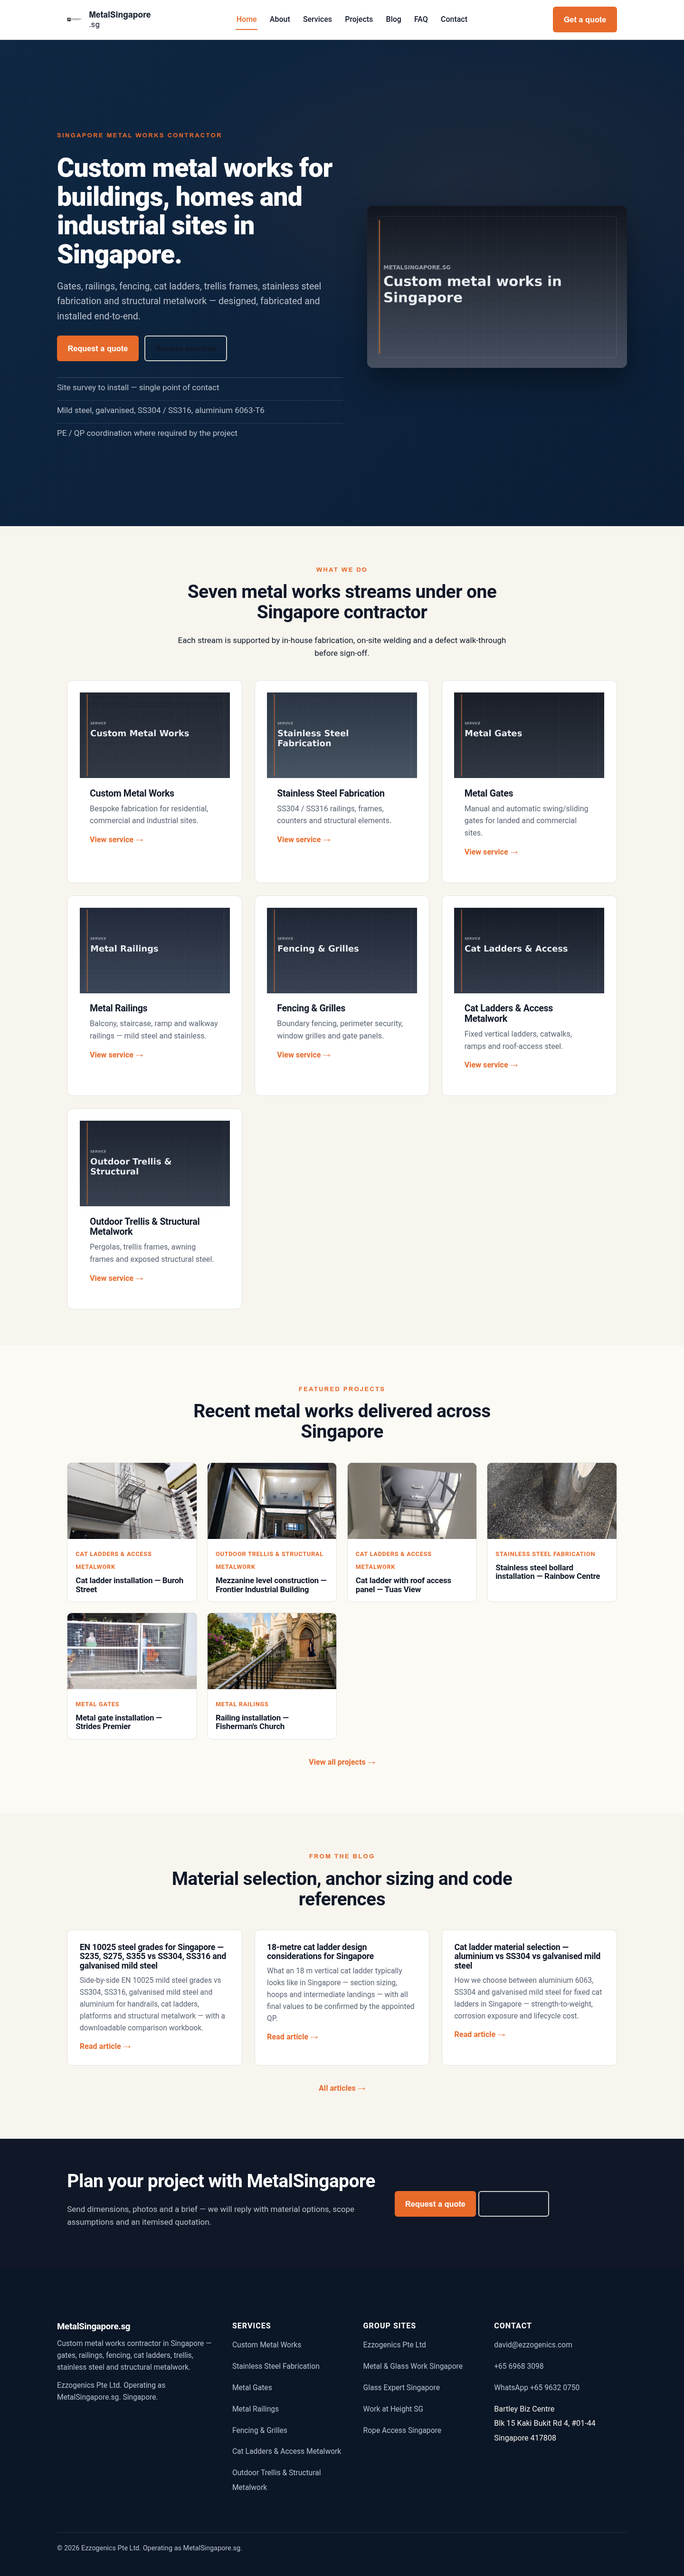
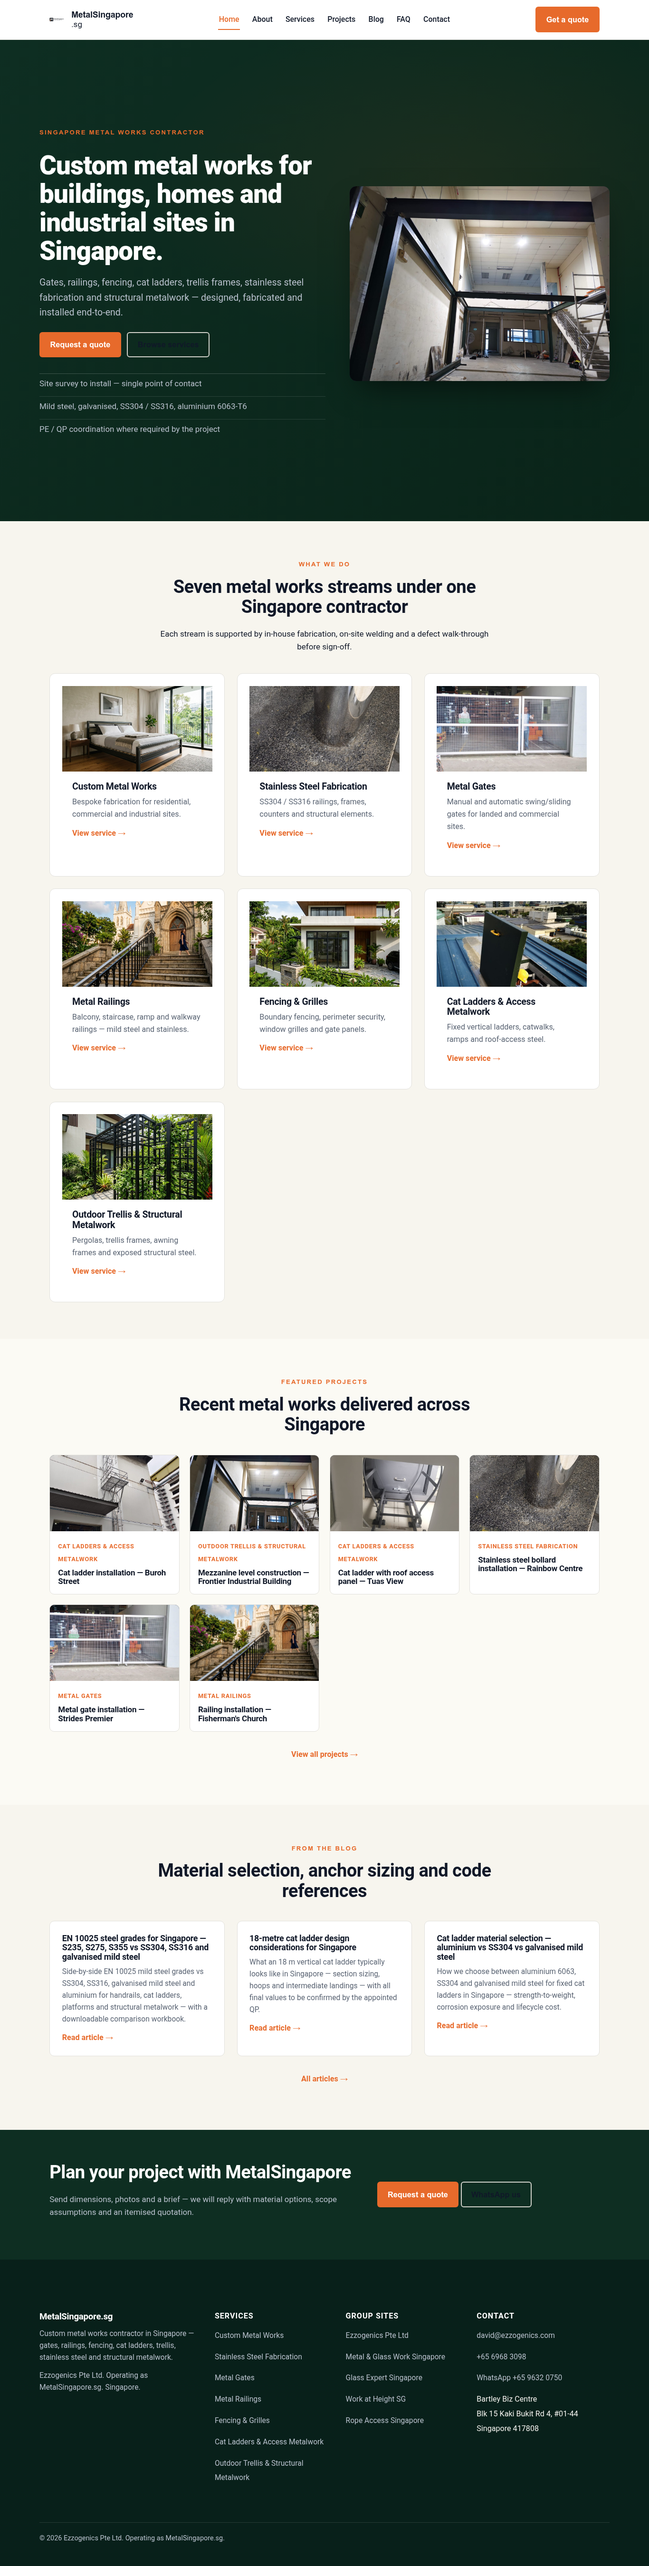
Home/services: replace text-only placeholder rectangles with real project images
The homepage hero card and the 7 service-card rectangles, plus the
/services/ hub cards, were dark blueprint blocks with text only. Swap
them for actual project photos from the existing /assets/images/projects
portfolio so the cards show real metalwork. Preserve the dark forest
green theme and card aspect ratios; images use object-fit:cover with the
existing border radius and consistent 4:3 framing.

- Home hero: Frontier Industrial mezzanine (eager / fetchpriority high).
- Custom Metal Works: Arthur 118 metal bed.
- Stainless Steel Fabrication: Rainbow Centre SS304 bollards.
- Metal Gates: Strides Premier metal gate.
- Metal Railings: Fisherman's Church railing.
- Fencing & Grilles: Grey Lane window grille / railing.
- Cat Ladders & Access: Wan Lee cat ladder.
- Outdoor Trellis & Structural: outdoor trellis.

Also updates CATEGORIES.cover and services.cover to point at the same
project photos so the /services/ hub, ServiceDetail OG images and the
static build agree. Adds .service-card--image variant CSS with media +
body split and hover zoom.

QA: tsc, vite build, build/site.py, qa_check.py all clean (0 errors,
84 pre-existing warnings unchanged).

diff --git a/src/pages/Home.tsx b/src/pages/Home.tsx
@@ -2,10 +2,46 @@ import { Link } from 'react-router-dom';
 import RouteHead from '../components/RouteHead';
 import CtaBlock from '../components/CtaBlock';
 import ProjectCard from '../components/ProjectCard';
-import { SITE, CATEGORIES, SPOKES } from '../data/site';
+import { SITE, CATEGORIES, SPOKES, type CategorySlug } from '../data/site';
 import { services } from '../data/services';
 import { useProjects } from '../hooks/useProjects';
 import { blogPosts } from '../data/blog';
+
+/**
+ * Cover image per service card on the home page. Sourced from the existing
+ * project portfolio so the rectangles show real metal works rather than
+ * placeholder cards.
+ */
+const SERVICE_CARD_IMAGES: Record<CategorySlug, { src: string; alt: string }> = {
+  'custom-metal-works': {
+    src: '/assets/images/projects/proj-arthur-118-metal-bed-2021.jpg',
+    alt: 'Custom fabricated metal bed frame for an Arthur Road residence, Singapore',
+  },
+  'stainless-steel-fabrication': {
+    src: '/assets/images/projects/proj-rainbow-centre-stainless-bollards-2024.jpg',
+    alt: 'Stainless steel SS304 bollards installed at Rainbow Centre, Singapore',
+  },
+  'metal-gates': {
+    src: '/assets/images/projects/proj-strides-premier-metal-gate-2024.jpg',
+    alt: 'Metal gate installation at Strides Premier, Singapore',
+  },
+  'metal-railings': {
+    src: '/assets/images/projects/proj-st-mary-church-railing-2023.jpg',
+    alt: "Metal railing installation at Fisherman's Church, Singapore",
+  },
+  'fencing-and-grilles': {
+    src: '/assets/images/projects/proj-grey-lane-metal-works-2022.jpg',
+    alt: 'Window grille and metal railing at Grey Lane, Singapore',
+  },
+  'cat-ladders-and-access-metalwork': {
+    src: '/assets/images/projects/proj-wan-lee-cat-ladder-2024.jpg',
+    alt: 'Cat ladder and roof access metalwork at Wan Lee, Singapore',
+  },
+  'outdoor-trellis-and-structural-metalwork': {
+    src: '/assets/images/projects/proj-outdoor-trellis-2024.jpg',
+    alt: 'Outdoor metal trellis fabricated and installed in Singapore',
+  },
+};
 
 export default function Home() {
   const { projects } = useProjects();
@@ -87,14 +123,15 @@ export default function Home() {
             </div>
           </div>
           <div className="hero-media">
-            <div
-              className="hero-card"
-              role="img"
-              aria-label="MetalSingapore.sg — custom metal works in Singapore"
-            >
-              <p className="hero-card-eyebrow">MetalSingapore.sg</p>
-              <p className="hero-card-title">Custom metal works in Singapore</p>
-            </div>
+            <img
+              src="/assets/images/projects/proj-frontier-industrial-mezzanine-2024.jpg"
+              alt="Structural steel mezzanine fabrication at Frontier Industrial Building, Singapore"
+              width={1200}
+              height={900}
+              loading="eager"
+              decoding="async"
+              fetchPriority="high"
+            />
           </div>
         </div>
       </section>
@@ -168,12 +205,25 @@ export default function Home() {
           <div className="service-grid">
             {Object.values(CATEGORIES).map((c) => {
               const svc = services.find((s) => s.slug === c.slug);
+              const card = SERVICE_CARD_IMAGES[c.slug];
               return (
-                <Link key={c.slug} to={`/services/${c.slug}`} className="service-card">
-                  <p className="eyebrow">Service</p>
-                  <h3>{c.title}</h3>
-                  <p>{svc?.lead || c.short}</p>
-                  <span className="service-card__more">Read more →</span>
+                <Link key={c.slug} to={`/services/${c.slug}`} className="service-card service-card--image">
+                  <div className="service-card__media">
+                    <img
+                      src={card.src}
+                      alt={card.alt}
+                      loading="lazy"
+                      decoding="async"
+                      width={800}
+                      height={600}
+                    />
+                  </div>
+                  <div className="service-card__body">
+                    <p className="eyebrow">Service</p>
+                    <h3>{c.title}</h3>
+                    <p>{svc?.lead || c.short}</p>
+                    <span className="service-card__more">Read more →</span>
+                  </div>
                 </Link>
               );
             })}

diff --git a/src/data/services.ts b/src/data/services.ts
@@ -75,7 +75,7 @@ export const services: Service[] = [
           'Where the metalwork forms part of a larger fit-out or A&A renovation, we coordinate with carpentry, glass, electrical and waterproofing trades through the main contractor or ID firm.',
       },
     ],
-    cover: '/assets/images/cat-custom-metal-works.jpg',
+    cover: '/assets/images/projects/proj-arthur-118-metal-bed-2021.jpg',
   },
   {
     slug: 'stainless-steel-fabrication',
@@ -128,7 +128,7 @@ export const services: Service[] = [
           'Frameless glass balustrades use clamp or channel fixings; semi-frameless designs use stainless top rails with glass panels. Glass thickness, post spacing and fixing capacity should be verified against the design loading by the project Professional Engineer.',
       },
     ],
-    cover: '/assets/images/cat-stainless-steel-fabrication.jpg',
+    cover: '/assets/images/projects/proj-rainbow-centre-stainless-bollards-2024.jpg',
   },
   {
     slug: 'metal-gates',
@@ -184,7 +184,7 @@ export const services: Service[] = [
           'Mild-steel gates outdoors should be hot-dip galvanised or zinc-primed before topcoat. Stainless gates are usually SS304 brushed for general use and SS316 if coastal exposure is expected.',
       },
     ],
-    cover: '/assets/images/cat-metal-gates.jpg',
+    cover: '/assets/images/projects/proj-strides-premier-metal-gate-2024.jpg',
   },
   {
     slug: 'metal-railings',
@@ -238,7 +238,7 @@ export const services: Service[] = [
           'Surface-mount base plates with mechanical anchors are fastest to install but transmit higher tensile load to the slab edge. Side-mount fascia brackets keep the slab edge clear but rely on the slab face strength. Choice should match the slab condition and the design loading.',
       },
     ],
-    cover: '/assets/images/cat-metal-railings.jpg',
+    cover: '/assets/images/projects/proj-st-mary-church-railing-2023.jpg',
   },
   {
     slug: 'fencing-and-grilles',
@@ -291,7 +291,7 @@ export const services: Service[] = [
           'Fixed grilles are simple and rigid; openable / lockable grilles allow emergency exit. SCDF and BCA requirements for habitable rooms and bedrooms should be verified by the appointed qualified person.',
       },
     ],
-    cover: '/assets/images/cat-fencing-and-grilles.jpg',
+    cover: '/assets/images/projects/proj-grey-lane-metal-works-2022.jpg',
   },
   {
     slug: 'cat-ladders-and-access-metalwork',
@@ -346,7 +346,7 @@ export const services: Service[] = [
           'Both Hilti and Fischer publish ETA-approved chemical and mechanical anchors with full design data for cracked and uncracked concrete. Anchor capacity is substrate-driven, not load-driven — the substrate type and crack state should be assessed before bolt selection.',
       },
     ],
-    cover: '/assets/images/cat-cat-ladders-and-access-metalwork.jpg',
+    cover: '/assets/images/projects/proj-wan-lee-cat-ladder-2024.jpg',
   },
   {
     slug: 'outdoor-trellis-and-structural-metalwork',
@@ -399,7 +399,7 @@ export const services: Service[] = [
           'Architectural steel that remains exposed in service should be detailed for cleanability and corrosion control — radiused outside corners, drainage holes in tubular sections, stainless fasteners where galvanic corrosion is a risk.',
       },
     ],
-    cover: '/assets/images/cat-outdoor-trellis-and-structural-metalwork.jpg',
+    cover: '/assets/images/projects/proj-outdoor-trellis-2024.jpg',
   },
 ];
 

diff --git a/src/data/site.ts b/src/data/site.ts
@@ -77,43 +77,43 @@ export const CATEGORIES = {
     slug: 'custom-metal-works',
     title: 'Custom Metal Works',
     short: 'Bespoke fabrication for residential, commercial and industrial sites.',
-    cover: '/assets/images/cat-custom-metal-works.jpg',
+    cover: '/assets/images/projects/proj-arthur-118-metal-bed-2021.jpg',
   },
   'stainless-steel-fabrication': {
     slug: 'stainless-steel-fabrication',
     title: 'Stainless Steel Fabrication',
     short: 'SS304 / SS316 railings, frames, counters and structural elements.',
-    cover: '/assets/images/cat-stainless-steel-fabrication.jpg',
+    cover: '/assets/images/projects/proj-rainbow-centre-stainless-bollards-2024.jpg',
   },
   'metal-gates': {
     slug: 'metal-gates',
     title: 'Metal Gates',
     short: 'Manual and automatic swing/sliding gates for landed and commercial sites.',
-    cover: '/assets/images/cat-metal-gates.jpg',
+    cover: '/assets/images/projects/proj-strides-premier-metal-gate-2024.jpg',
   },
   'metal-railings': {
     slug: 'metal-railings',
     title: 'Metal Railings',
     short: 'Balcony, staircase, ramp and walkway railings — mild steel and stainless.',
-    cover: '/assets/images/cat-metal-railings.jpg',
+    cover: '/assets/images/projects/proj-st-mary-church-railing-2023.jpg',
   },
   'fencing-and-grilles': {
     slug: 'fencing-and-grilles',
     title: 'Fencing & Grilles',
     short: 'Boundary fencing, perimeter security, window grilles and gate panels.',
-    cover: '/assets/images/cat-fencing-and-grilles.jpg',
+    cover: '/assets/images/projects/proj-grey-lane-metal-works-2022.jpg',
   },
   'cat-ladders-and-access-metalwork': {
     slug: 'cat-ladders-and-access-metalwork',
     title: 'Cat Ladders & Access Metalwork',
     short: 'Fixed vertical ladders, catwalks, ramps and roof-access steel.',
-    cover: '/assets/images/cat-cat-ladders-and-access-metalwork.jpg',
+    cover: '/assets/images/projects/proj-wan-lee-cat-ladder-2024.jpg',
   },
   'outdoor-trellis-and-structural-metalwork': {
     slug: 'outdoor-trellis-and-structural-metalwork',
     title: 'Outdoor Trellis & Structural Metalwork',
     short: 'Pergolas, trellis frames, awning frames and exposed structural steel.',
-    cover: '/assets/images/cat-outdoor-trellis-and-structural-metalwork.jpg',
+    cover: '/assets/images/projects/proj-outdoor-trellis-2024.jpg',
   },
 } as const;
 

diff --git a/assets/css/site.css b/assets/css/site.css
@@ -184,8 +184,15 @@ ul li, ol li { margin-bottom: 0.35em; }
 .hero-media {
   border-radius: 14px; overflow: hidden;
   box-shadow: 0 30px 60px -20px rgba(0,0,0,0.55);
+  background: var(--ink-3);
+  aspect-ratio: 4 / 3;
 }
-.hero-media img { width: 100%; height: auto; display: block; }
+.hero-media img {
+  width: 100%;
+  height: 100%;
+  object-fit: cover;
+  display: block;
+}
 
 /* --- Blueprint / technical card used in hero-art --- */
 .hero-card {
@@ -346,6 +353,33 @@ ul li, ol li { margin-bottom: 0.35em; }
   text-decoration: none; color: var(--ink);
   transition: transform 0.18s, border-color 0.18s, box-shadow 0.18s;
 }
+/* Service card with a real cover image: image fills the top of the card,
+   the body keeps the existing padded text layout below. */
+.service-card--image {
+  padding: 0;
+  overflow: hidden;
+}
+.service-card--image .service-card__media {
+  width: 100%;
+  aspect-ratio: 4 / 3;
+  overflow: hidden;
+  background: var(--ink-3);
+}
+.service-card--image .service-card__media img {
+  width: 100%;
+  height: 100%;
+  object-fit: cover;
+  display: block;
+  transition: transform 0.4s ease;
+}
+.service-card--image:hover .service-card__media img { transform: scale(1.03); }
+.service-card--image .service-card__body {
+  padding: 1.4rem 1.5rem 1.5rem;
+  display: flex;
+  flex-direction: column;
+  flex: 1;
+}
+.service-card--image .service-card__body p { flex: 1; }
 .service-card:hover, .hub-card:hover {
   transform: translateY(-2px);
   border-color: var(--accent);

diff --git a/build/site.py b/build/site.py
@@ -78,6 +78,40 @@ FAQS = D["faqs"]
 
 SERVICES_BY_SLUG = {s["slug"]: s for s in SERVICES}
 
+# Cover image per service card on the home page — sourced from real project
+# photos so the rectangles show actual metalwork rather than placeholder cards.
+# Keep aligned with src/pages/Home.tsx SERVICE_CARD_IMAGES.
+HOME_SERVICE_CARD_IMAGES = {
+    "custom-metal-works": {
+        "src": "/assets/images/projects/proj-arthur-118-metal-bed-2021.jpg",
+        "alt": "Custom fabricated metal bed frame for an Arthur Road residence, Singapore",
+    },
+    "stainless-steel-fabrication": {
+        "src": "/assets/images/projects/proj-rainbow-centre-stainless-bollards-2024.jpg",
+        "alt": "Stainless steel SS304 bollards installed at Rainbow Centre, Singapore",
+    },
+    "metal-gates": {
+        "src": "/assets/images/projects/proj-strides-premier-metal-gate-2024.jpg",
+        "alt": "Metal gate installation at Strides Premier, Singapore",
+    },
+    "metal-railings": {
+        "src": "/assets/images/projects/proj-st-mary-church-railing-2023.jpg",
+        "alt": "Metal railing installation at Fisherman's Church, Singapore",
+    },
+    "fencing-and-grilles": {
+        "src": "/assets/images/projects/proj-grey-lane-metal-works-2022.jpg",
+        "alt": "Window grille and metal railing at Grey Lane, Singapore",
+    },
+    "cat-ladders-and-access-metalwork": {
+        "src": "/assets/images/projects/proj-wan-lee-cat-ladder-2024.jpg",
+        "alt": "Cat ladder and roof access metalwork at Wan Lee, Singapore",
+    },
+    "outdoor-trellis-and-structural-metalwork": {
+        "src": "/assets/images/projects/proj-outdoor-trellis-2024.jpg",
+        "alt": "Outdoor metal trellis fabricated and installed in Singapore",
+    },
+}
+
 
 # --- HTML helpers -----------------------------------------------------------
 
@@ -286,7 +320,7 @@ def home_page() -> str:
     services_grid = "\n".join(
         f'''
       <a class="service-card" href="/services/{esc(slug)}/">
-        <div class="service-card-image" style="background-image:url('{esc(CATEGORIES[slug]["cover"])}')"></div>
+        <div class="service-card-image" style="background-image:url('{esc(HOME_SERVICE_CARD_IMAGES[slug]["src"])}')" role="img" aria-label="{esc(HOME_SERVICE_CARD_IMAGES[slug]["alt"])}"></div>
         <div class="service-card-body">
           <h3>{esc(CATEGORIES[slug]["title"])}</h3>
           <p>{esc(CATEGORIES[slug]["short"])}</p>
@@ -356,9 +390,10 @@ def home_page() -> str:
       </ul>
     </div>
     <div class="hero-art">
-      <div class="hero-card" role="img" aria-label="MetalSingapore.sg — custom metal works in Singapore">
-        <p class="hero-card-eyebrow">MetalSingapore.sg</p>
-        <p class="hero-card-title">Custom metal works in Singapore</p>
+      <div class="hero-media">
+        <img src="/assets/images/projects/proj-frontier-industrial-mezzanine-2024.jpg"
+             alt="Structural steel mezzanine fabrication at Frontier Industrial Building, Singapore"
+             width="1200" height="900" loading="eager" decoding="async" fetchpriority="high" />
       </div>
     </div>
   </div>
